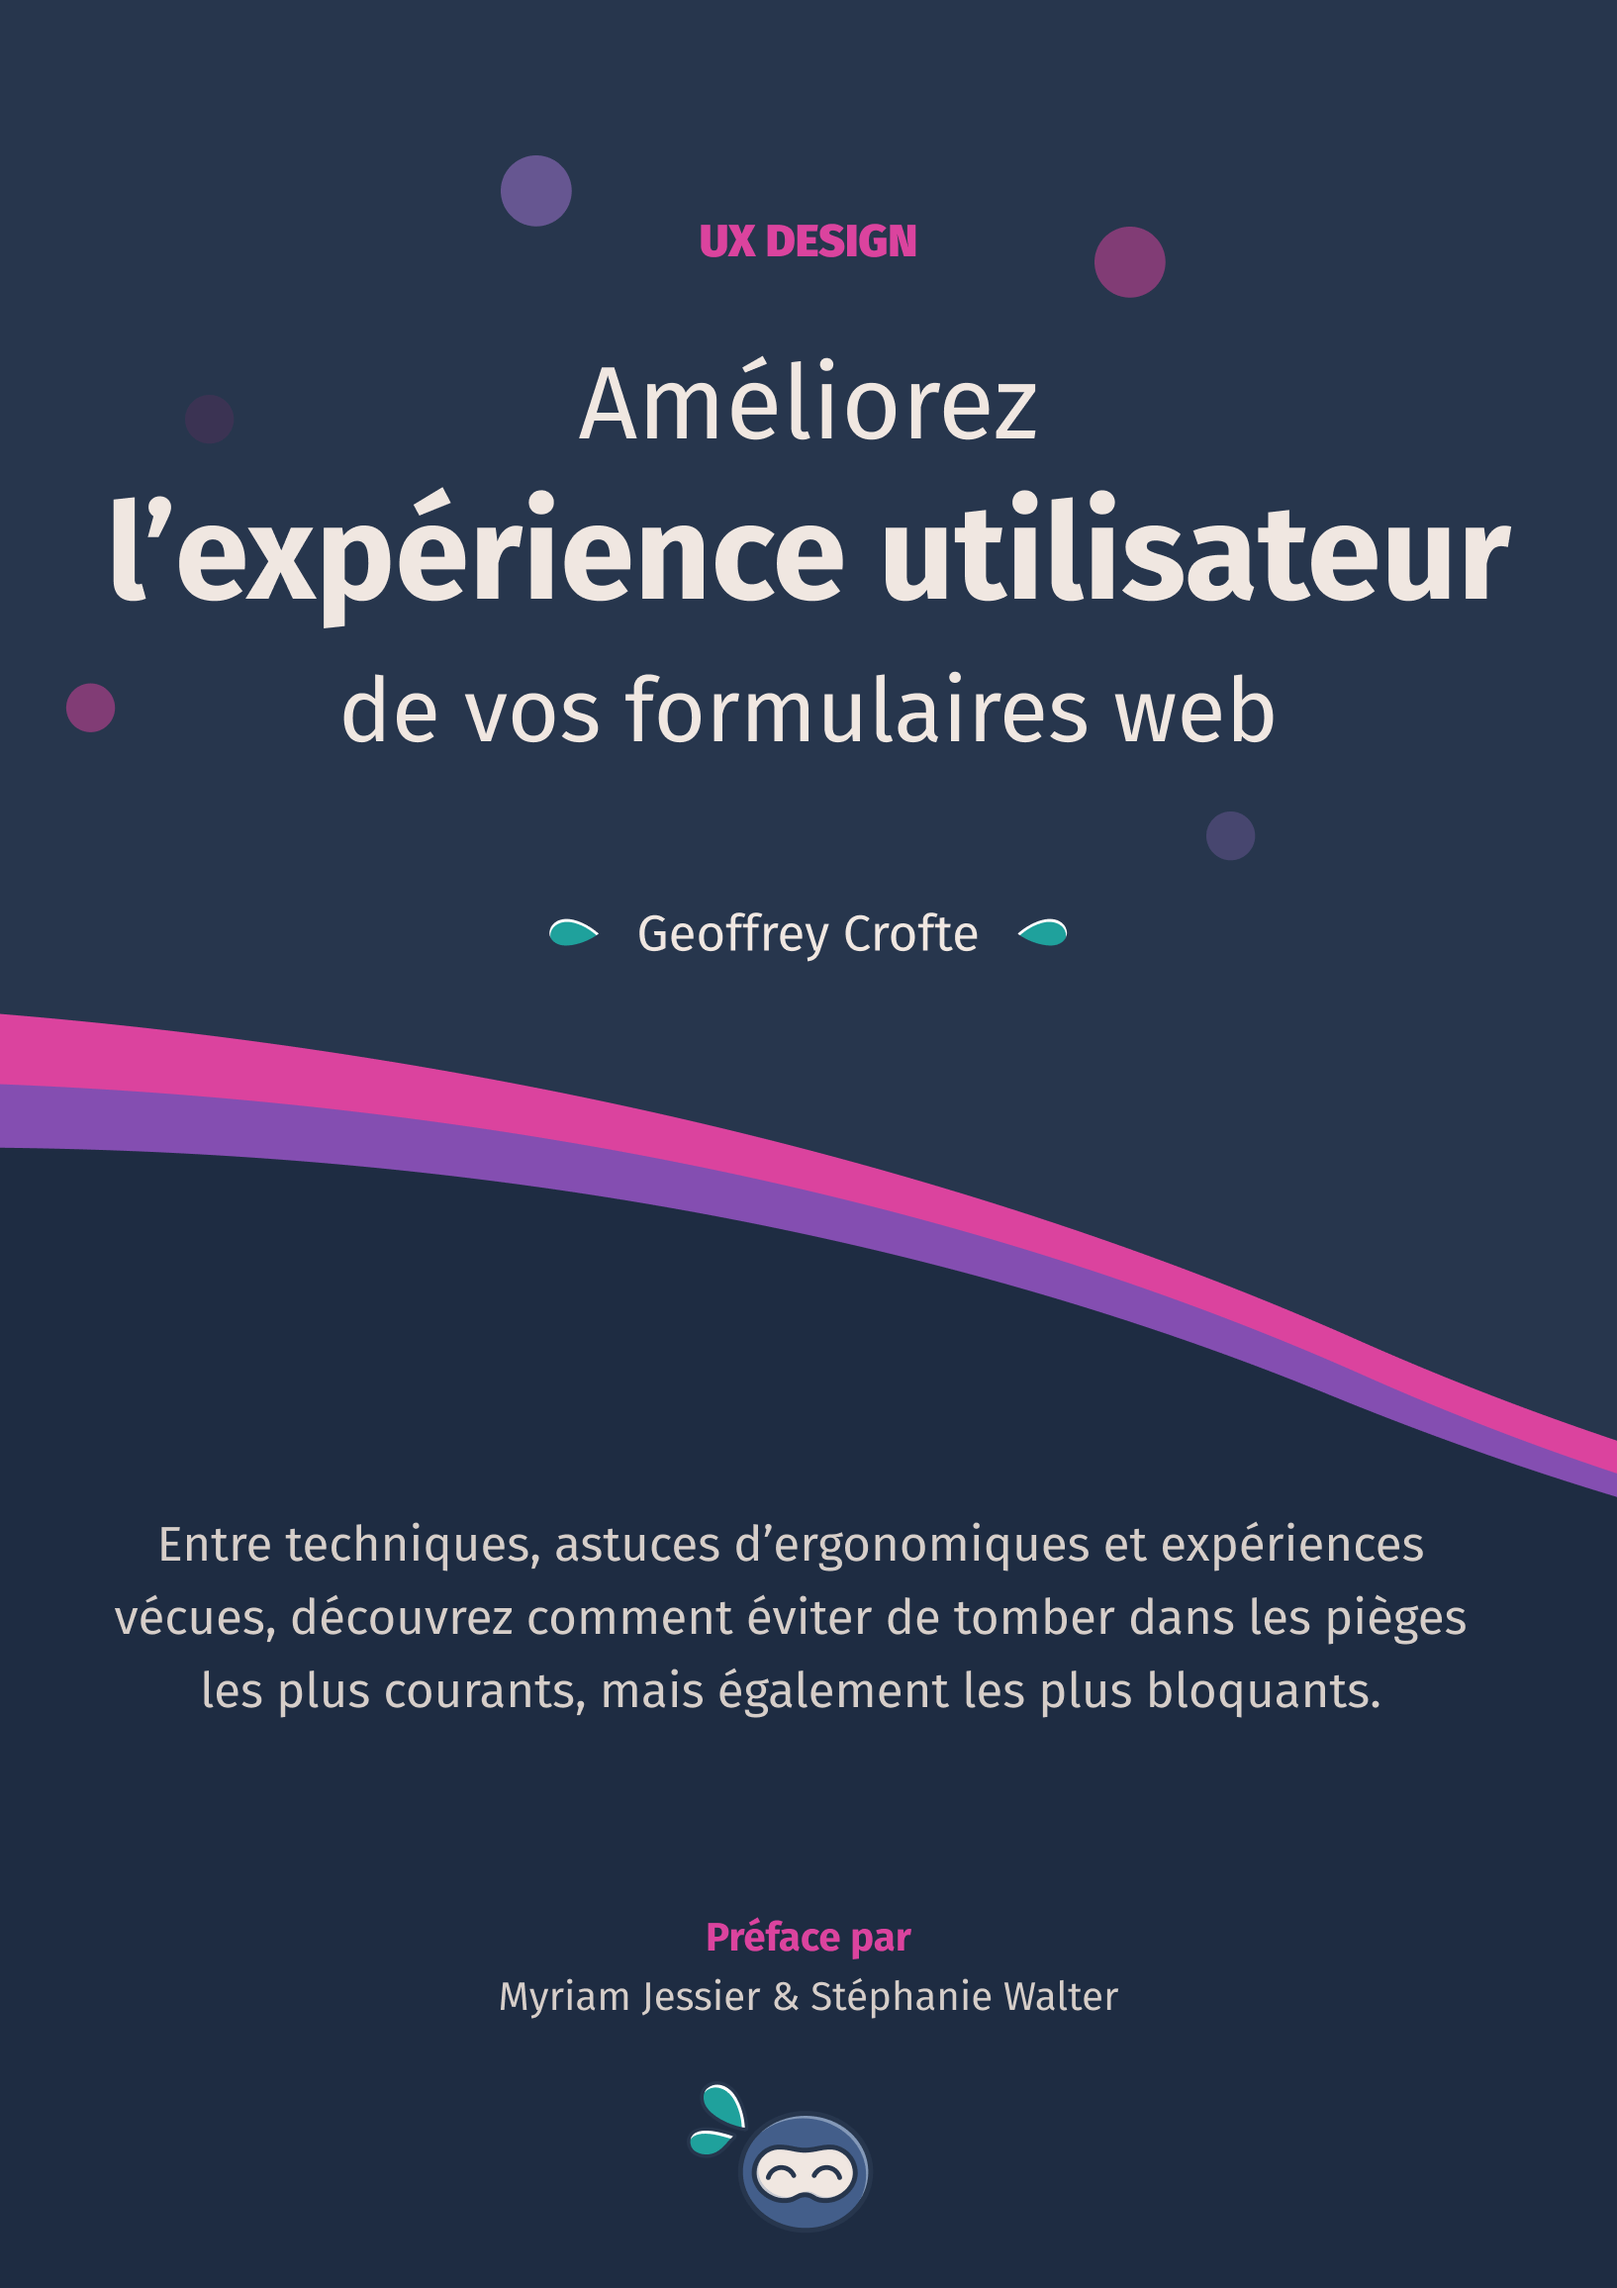
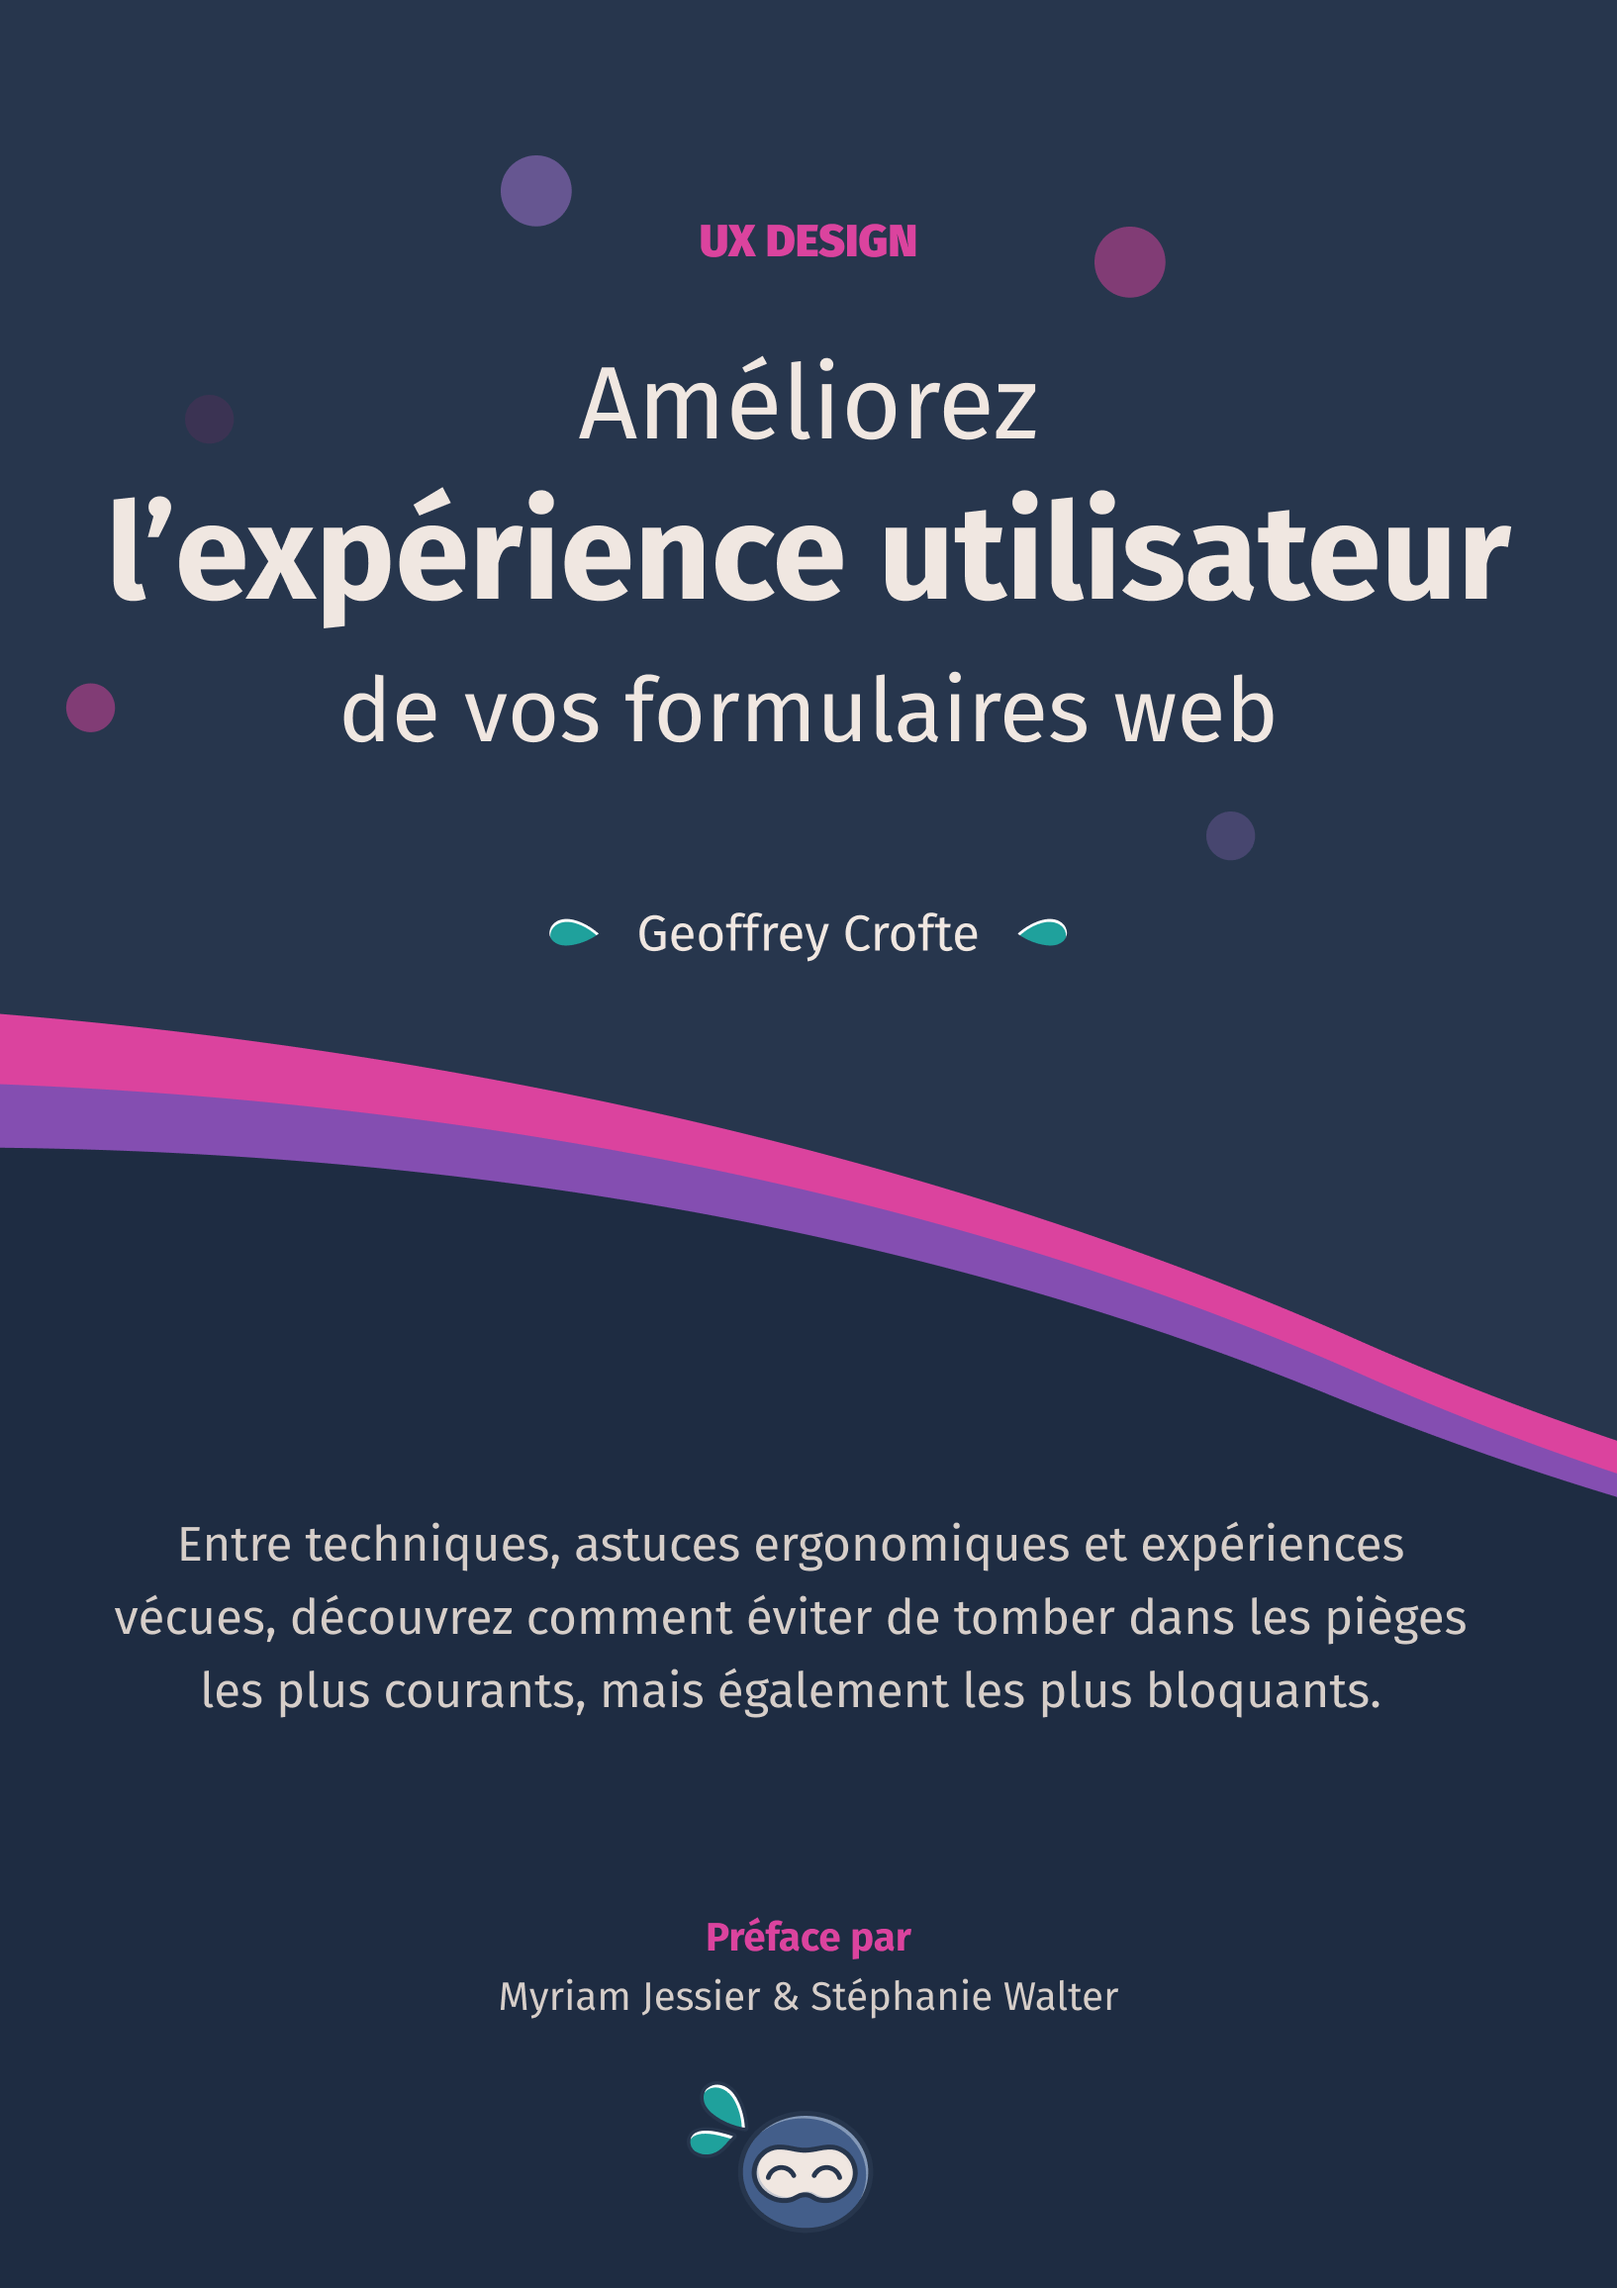
Typo fix

Changed region(s): [[0.0936, 0.654, 0.8739, 0.6851]]

diff --git a/index.html b/index.html
@@ -23,7 +23,7 @@
                 <div class="banner-text col">
                     <p class="hovertitle">UX Design</p>
                     <h1>Améliorez l’expérience utilisateur de vos formulaires web</h1>
-                    <p>Entre techniques, astuces d’ergonomiques et expériences vécues, découvrez comment éviter de tomber dans les pièges les plus courants, mais également les plus bloquants lorsque vous concevez des formulaires pour le web.</p>
+                    <p>Entre techniques, astuces ergonomiques et expériences vécues, découvrez comment éviter de tomber dans les pièges les plus courants, mais également les plus bloquants lorsque vous concevez des formulaires pour le web.</p>
                     <p class="author">
                         Par <strong><a href="https://geoffreycrofe.com">Geoffrey Crofte</a></strong><br>
                         <a href="https://twitter.com/geoffreycrofte">
@@ -59,9 +59,7 @@
                 <div class="col">
                     <p class="hovertitle">Bientôt en e-book</p>
                     <h2>Recevoir l'information dès sa sortie</h2>
-                    <p>Pour ne pas manquer sa sortie et la promotion qui va avec (un e-book aussi complet à 5€ ça ne se
-                        loupe pas), fournissez-moi votre adresse e-mail et je vous recontacterai sans faute. Vous ne
-                        recevrez jamais de spam de ma part, je n'aime pas cela non plus 😊</p>
+                    <p>Pour ne pas manquer sa sortie et la promotion qui va avec (un e-book aussi complet à 5€ ça ne se loupe pas), fournissez-moi votre adresse e-mail et je vous recontacterai sans faute. Vous ne recevrez jamais de spam de ma part, je n'aime pas cela non plus.&nbsp;😊</p>
                 </div>
                 <form
                     action="https://geoffreycrofte.us21.list-manage.com/subscribe/post?u=d5d0b9ba2f1d471664752bd59&amp;id=ba6efba6f2&amp;v_id=1&amp;f_id=000cc2e1f0"
@@ -100,7 +98,7 @@
                 <ol aria-labelledby="plan-title" class="col plan">
                     <li>Les définitions possibles d'un formulaire web</li>
                     <li>Exemples de mauvais usages, de la réalité à l'absurde</li>
-                    <li>Autour du formulaire</li>
+                    <li>Autour du formulaire : existant, formation, et service.</li>
                     <li>Retour sur les bases ergonomiques d'un champ</li>
                     <li>Les expériences sur un formulaire web</li>
                     <li>Formulaires types et solutions types</li>
